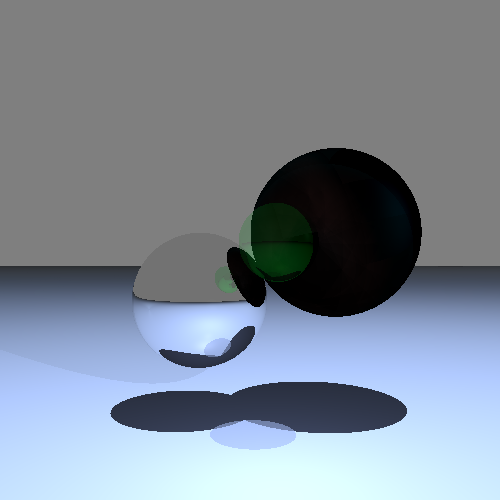
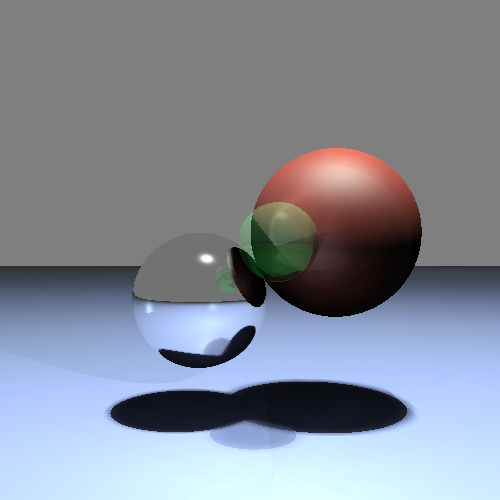
softShadow mid-work save

diff --git a/src/RayTracing/RayTracer.java b/src/RayTracing/RayTracer.java
@@ -664,20 +664,21 @@ public class RayTracer {
 		double size = licht.getWidth();
 		double cellSize = size / shRays; 
 		Vector upperLeftPoint = p0.add(up.mult(size/2)).add(left.mult(size/2));
-		//upperLeftPoint = upperLeftPoint.add(right.mult(cellSize/2)).add(down.mult(cellSize/2)); 
+//		upperLeftPoint = upperLeftPoint.add(right.mult(cellSize/2)).add(down.mult(cellSize/2)); 
+		
 		double cnt = 0;
-		for (int i = 0; i < shRays; i++) {
-			for (int j = 0; j < shRays; j++) {
+		for (int i = 0; i < (int) shRays; i++) {
+			for (int j = 0; j < (int) shRays; j++) {
 				Vector p = upperLeftPoint.add(down.mult(i*cellSize)).add(right.mult(j*cellSize)); 
-				Vector newV = endPoint.sub(p).normalize();
+				Vector newV = p.sub(endPoint).normalize();
 				double t = endPoint.getDistanceScalar(p); 
-				Vector newP0 = endPoint.add(newV.mult(0.01));
+				Vector newP0 = endPoint.add(newV.mult(0.00001));
 				Ray newRay = new Ray(t, newP0, newV);
 				
 				for(Shape shape: this.scene.getShapes()){
 						double newT = newRay.inter(shape);
 						if(( newT > 0) && ( newT <= t)){
-							cnt+= 1;
+							cnt+= 1 - this.scene.getMaterials().get(shape.getMat_idx() - 1).getTrans();
 							break;
 						}
 				}
